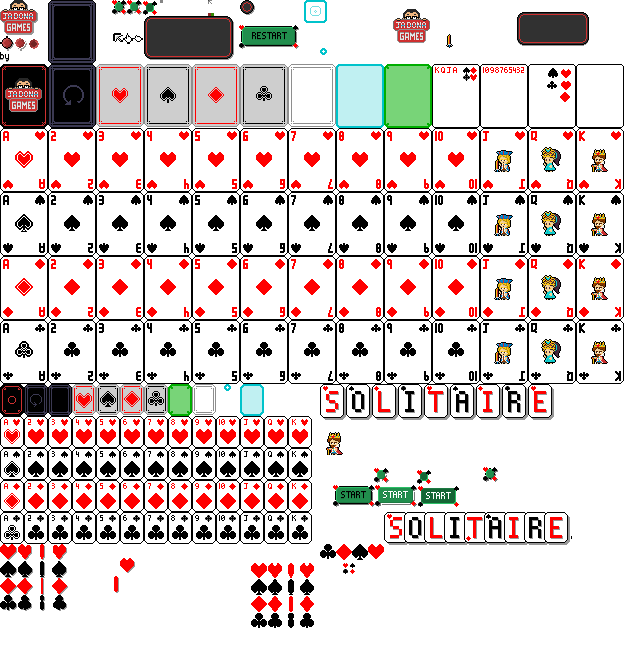
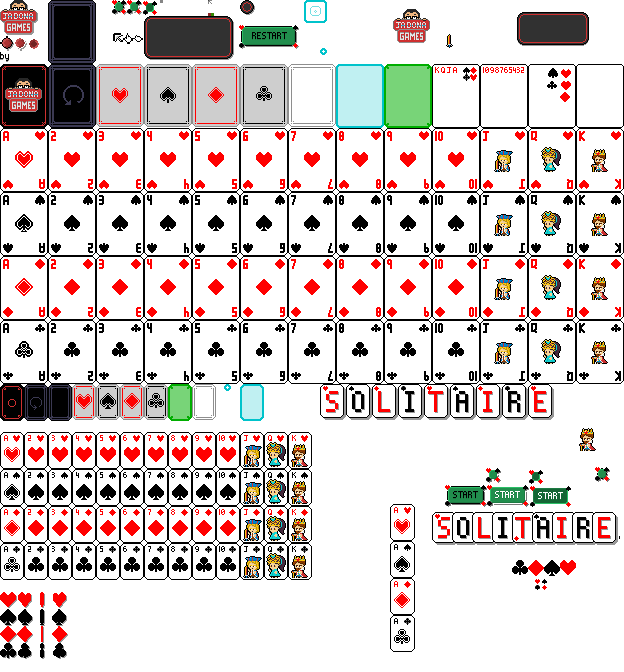
MAJ

Changed region(s): [[0.0, 0.0, 1.0, 0.9861], [0.8221, 0.0, 0.9439, 0.0308], [0.4872, 0.0, 0.5176, 0.0308]]

diff --git a/ENTITIES/card.js b/ENTITIES/card.js
@@ -22,7 +22,7 @@ class Card {
         Hover: 1,
         FaceDown: 2,
     });
-    static COL_OFFSET = 68;
+    static COL_OFFSET = 74; //? PixelMode COL offset
     static font = "24px kyokasho";
 
     constructor(pPosition, pName, pType, pAnimX, pAnimY, pKanji) {
@@ -36,7 +36,7 @@ class Card {
             this.height = 64;
         } else {
             this.width = 24;
-            this.height = 32;
+            this.height = 37;
         }
 
         this.state = Card.STATE.Normal;
@@ -321,58 +321,58 @@ class Card {
 
         } else { //? PixelMode
 
-            Card.CARD_LIST["A♥"] = {name: "A",type: "♥",x: 0, y: 416};
-            Card.CARD_LIST["2♥"] = {name: "2",type: "♥",x: 24,y: 416};
-            Card.CARD_LIST["3♥"] = {name: "3",type: "♥",x: 48,y: 416};
-            Card.CARD_LIST["4♥"] = {name: "4",type: "♥",x: 72,y: 416};
-            Card.CARD_LIST["5♥"] = {name: "5",type: "♥",x: 96,y: 416};
-            Card.CARD_LIST["6♥"] = {name: "6",type: "♥",x: 120,y: 416};
-            Card.CARD_LIST["7♥"] = {name: "7",type: "♥",x: 144,y: 416};
-            Card.CARD_LIST["8♥"] = {name: "8",type: "♥",x: 168,y: 416};
-            Card.CARD_LIST["9♥"] = {name: "9",type: "♥",x: 192,y: 416};
-            Card.CARD_LIST["10♥"] ={name: "10",type: "♥",x: 216,y: 416};
-            Card.CARD_LIST["J♥"] = {name: "J",type: "♥",x: 240,y: 416};
-            Card.CARD_LIST["Q♥"] = {name: "Q",type: "♥",x: 264,y: 416};
-            Card.CARD_LIST["K♥"] = {name: "K",type: "♥",x: 288,y: 416};
-            Card.CARD_LIST["A♠"] = {name: "A",type: "♠",x: 0, y: 448};
-            Card.CARD_LIST["2♠"] = {name: "2",type: "♠",x: 24,y: 448};
-            Card.CARD_LIST["3♠"] = {name: "3",type: "♠",x: 48,y: 448};
-            Card.CARD_LIST["4♠"] = {name: "4",type: "♠",x: 72,y: 448};
-            Card.CARD_LIST["5♠"] = {name: "5",type: "♠",x: 96,y: 448};
-            Card.CARD_LIST["6♠"] = {name: "6",type: "♠",x: 120,y: 448};
-            Card.CARD_LIST["7♠"] = {name: "7",type: "♠",x: 144,y: 448};
-            Card.CARD_LIST["8♠"] = {name: "8",type: "♠",x: 168,y: 448};
-            Card.CARD_LIST["9♠"] = {name: "9",type: "♠",x: 192,y: 448};
-            Card.CARD_LIST["10♠"] ={name: "10",type: "♠",x: 216,y: 448};
-            Card.CARD_LIST["J♠"] = {name: "J",type: "♠",x: 240,y: 448};
-            Card.CARD_LIST["Q♠"] = {name: "Q",type: "♠",x: 264,y: 448};
-            Card.CARD_LIST["K♠"] = {name: "K",type: "♠",x: 288,y: 448};
-            Card.CARD_LIST["A♦"] = {name: "A",type: "♦",x: 0, y: 480};
-            Card.CARD_LIST["2♦"] = {name: "2",type: "♦",x: 24,y: 480};
-            Card.CARD_LIST["3♦"] = {name: "3",type: "♦",x: 48,y: 480};
-            Card.CARD_LIST["4♦"] = {name: "4",type: "♦",x: 72,y: 480};
-            Card.CARD_LIST["5♦"] = {name: "5",type: "♦",x: 96,y: 480};
-            Card.CARD_LIST["6♦"] = {name: "6",type: "♦",x: 120,y: 480};
-            Card.CARD_LIST["7♦"] = {name: "7",type: "♦",x: 144,y: 480};
-            Card.CARD_LIST["8♦"] = {name: "8",type: "♦",x: 168,y: 480};
-            Card.CARD_LIST["9♦"] = {name: "9",type: "♦",x: 192,y: 480};
-            Card.CARD_LIST["10♦"] ={name: "10",type: "♦",x: 216,y: 480};
-            Card.CARD_LIST["J♦"] = {name: "J",type: "♦",x: 240,y: 480};
-            Card.CARD_LIST["Q♦"] = {name: "Q",type: "♦",x: 264,y: 480};
-            Card.CARD_LIST["K♦"] = {name: "K",type: "♦",x: 288,y: 480};
-            Card.CARD_LIST["A♣"] = {name: "A",type: "♣",x: 0, y: 512};
-            Card.CARD_LIST["2♣"] = {name: "2",type: "♣",x: 24,y: 512};
-            Card.CARD_LIST["3♣"] = {name: "3",type: "♣",x: 48,y: 512};
-            Card.CARD_LIST["4♣"] = {name: "4",type: "♣",x: 72,y: 512};
-            Card.CARD_LIST["5♣"] = {name: "5",type: "♣",x: 96,y: 512};
-            Card.CARD_LIST["6♣"] = {name: "6",type: "♣",x: 120,y: 512};
-            Card.CARD_LIST["7♣"] = {name: "7",type: "♣",x: 144,y: 512};
-            Card.CARD_LIST["8♣"] = {name: "8",type: "♣",x: 168,y: 512};
-            Card.CARD_LIST["9♣"] = {name: "9",type: "♣",x: 192,y: 512};
-            Card.CARD_LIST["10♣"] ={name: "10",type: "♣",x: 216,y: 512};
-            Card.CARD_LIST["J♣"] = {name: "J",type: "♣",x: 240,y: 512};
-            Card.CARD_LIST["Q♣"] = {name: "Q",type: "♣",x: 264,y: 512};
-            Card.CARD_LIST["K♣"] = {name: "K",type: "♣",x: 288,y: 512};
+            Card.CARD_LIST["A♥"] = {name: "A",type: "♥",x: 0, y: 432};
+            Card.CARD_LIST["2♥"] = {name: "2",type: "♥",x: 24,y: 432};
+            Card.CARD_LIST["3♥"] = {name: "3",type: "♥",x: 48,y: 432};
+            Card.CARD_LIST["4♥"] = {name: "4",type: "♥",x: 72,y: 432};
+            Card.CARD_LIST["5♥"] = {name: "5",type: "♥",x: 96,y: 432};
+            Card.CARD_LIST["6♥"] = {name: "6",type: "♥",x: 120,y: 432};
+            Card.CARD_LIST["7♥"] = {name: "7",type: "♥",x: 144,y: 432};
+            Card.CARD_LIST["8♥"] = {name: "8",type: "♥",x: 168,y: 432};
+            Card.CARD_LIST["9♥"] = {name: "9",type: "♥",x: 192,y: 432};
+            Card.CARD_LIST["10♥"] ={name: "10",type: "♥",x: 216,y: 432};
+            Card.CARD_LIST["J♥"] = {name: "J",type: "♥",x: 240,y: 432};
+            Card.CARD_LIST["Q♥"] = {name: "Q",type: "♥",x: 264,y: 432};
+            Card.CARD_LIST["K♥"] = {name: "K",type: "♥",x: 288,y: 432};
+            Card.CARD_LIST["A♠"] = {name: "A",type: "♠",x: 0, y: 469};
+            Card.CARD_LIST["2♠"] = {name: "2",type: "♠",x: 24,y: 469};
+            Card.CARD_LIST["3♠"] = {name: "3",type: "♠",x: 48,y: 469};
+            Card.CARD_LIST["4♠"] = {name: "4",type: "♠",x: 72,y: 469};
+            Card.CARD_LIST["5♠"] = {name: "5",type: "♠",x: 96,y: 469};
+            Card.CARD_LIST["6♠"] = {name: "6",type: "♠",x: 120,y: 469};
+            Card.CARD_LIST["7♠"] = {name: "7",type: "♠",x: 144,y: 469};
+            Card.CARD_LIST["8♠"] = {name: "8",type: "♠",x: 168,y: 469};
+            Card.CARD_LIST["9♠"] = {name: "9",type: "♠",x: 192,y: 469};
+            Card.CARD_LIST["10♠"] ={name: "10",type: "♠",x: 216,y: 469};
+            Card.CARD_LIST["J♠"] = {name: "J",type: "♠",x: 240,y: 469};
+            Card.CARD_LIST["Q♠"] = {name: "Q",type: "♠",x: 264,y: 469};
+            Card.CARD_LIST["K♠"] = {name: "K",type: "♠",x: 288,y: 469};
+            Card.CARD_LIST["A♦"] = {name: "A",type: "♦",x: 0, y: 506};
+            Card.CARD_LIST["2♦"] = {name: "2",type: "♦",x: 24,y: 506};
+            Card.CARD_LIST["3♦"] = {name: "3",type: "♦",x: 48,y: 506};
+            Card.CARD_LIST["4♦"] = {name: "4",type: "♦",x: 72,y: 506};
+            Card.CARD_LIST["5♦"] = {name: "5",type: "♦",x: 96,y: 506};
+            Card.CARD_LIST["6♦"] = {name: "6",type: "♦",x: 120,y: 506};
+            Card.CARD_LIST["7♦"] = {name: "7",type: "♦",x: 144,y: 506};
+            Card.CARD_LIST["8♦"] = {name: "8",type: "♦",x: 168,y: 506};
+            Card.CARD_LIST["9♦"] = {name: "9",type: "♦",x: 192,y: 506};
+            Card.CARD_LIST["10♦"] ={name: "10",type: "♦",x: 216,y: 506};
+            Card.CARD_LIST["J♦"] = {name: "J",type: "♦",x: 240,y: 506};
+            Card.CARD_LIST["Q♦"] = {name: "Q",type: "♦",x: 264,y: 506};
+            Card.CARD_LIST["K♦"] = {name: "K",type: "♦",x: 288,y: 506};
+            Card.CARD_LIST["A♣"] = {name: "A",type: "♣",x: 0, y: 543};
+            Card.CARD_LIST["2♣"] = {name: "2",type: "♣",x: 24,y: 543};
+            Card.CARD_LIST["3♣"] = {name: "3",type: "♣",x: 48,y: 543};
+            Card.CARD_LIST["4♣"] = {name: "4",type: "♣",x: 72,y: 543};
+            Card.CARD_LIST["5♣"] = {name: "5",type: "♣",x: 96,y: 543};
+            Card.CARD_LIST["6♣"] = {name: "6",type: "♣",x: 120,y: 543};
+            Card.CARD_LIST["7♣"] = {name: "7",type: "♣",x: 144,y: 543};
+            Card.CARD_LIST["8♣"] = {name: "8",type: "♣",x: 168,y: 543};
+            Card.CARD_LIST["9♣"] = {name: "9",type: "♣",x: 192,y: 543};
+            Card.CARD_LIST["10♣"] ={name: "10",type: "♣",x: 216,y: 543};
+            Card.CARD_LIST["J♣"] = {name: "J",type: "♣",x: 240,y: 543};
+            Card.CARD_LIST["Q♣"] = {name: "Q",type: "♣",x: 264,y: 543};
+            Card.CARD_LIST["K♣"] = {name: "K",type: "♣",x: 288,y: 543};
             
             let x = 1;
             let xOffset = 27;

diff --git a/SCENES/pixelMode.js b/SCENES/pixelMode.js
@@ -103,34 +103,34 @@ class PixelMode {
         // endingBtn.setTextCenterY();
         // PixelMode.list.push(endingBtn.getSprite());
 
-        PixelMode.DECK = new Sprite({ w: 24, h: 32 }, Card.POSITIONS["deck"].x, Card.POSITIONS["deck"].y, null, "card");
+        PixelMode.DECK = new Sprite({ w: 24, h: 37 }, Card.POSITIONS["deck"].x, Card.POSITIONS["deck"].y, null, "card");
         PixelMode.DECK.addAnimation("normal", { x: 24, y: 384 });
         PixelMode.DECK.addAnimation("void", { x: 48, y: 384 });
         PixelMode.DECK.changeAnimation("normal");
         PixelMode.list.push(PixelMode.DECK);
 
-        PixelMode.DECK2 = new Sprite({ w: 24, h: 32 }, Card.POSITIONS["deck2"].x, Card.POSITIONS["deck2"].y, null, "card");
+        PixelMode.DECK2 = new Sprite({ w: 24, h: 37 }, Card.POSITIONS["deck2"].x, Card.POSITIONS["deck2"].y, null, "card");
         PixelMode.DECK2.addAnimation("normal", { x: 192, y: 384 });
         PixelMode.DECK2.changeAnimation("normal");
         PixelMode.list.push(PixelMode.DECK2);
 
         // hearts (♥), spades (♠), diamonds (♦), clubs (♣).
-        PixelMode.DECK_HEART = new Sprite({ w: 24, h: 32 }, Card.POSITIONS["♥"].x, Card.POSITIONS["♥"].y, null, "card");
+        PixelMode.DECK_HEART = new Sprite({ w: 24, h: 37 }, Card.POSITIONS["♥"].x, Card.POSITIONS["♥"].y, null, "card");
         PixelMode.DECK_HEART.addAnimation("normal", { x: 72, y: 384 });
         PixelMode.DECK_HEART.changeAnimation("normal");
         PixelMode.list.push(PixelMode.DECK_HEART);
 
-        PixelMode.DECK_SPADE = new Sprite({ w: 24, h: 32 }, Card.POSITIONS["♠"].x, Card.POSITIONS["♠"].y, null, "card");
+        PixelMode.DECK_SPADE = new Sprite({ w: 24, h: 37 }, Card.POSITIONS["♠"].x, Card.POSITIONS["♠"].y, null, "card");
         PixelMode.DECK_SPADE.addAnimation("normal", { x: 96, y: 384 });
         PixelMode.DECK_SPADE.changeAnimation("normal");
         PixelMode.list.push(PixelMode.DECK_SPADE);
 
-        PixelMode.DECK_DIAMOND = new Sprite({ w: 24, h: 32 }, Card.POSITIONS["♦"].x, Card.POSITIONS["♦"].y, null, "card");
+        PixelMode.DECK_DIAMOND = new Sprite({ w: 24, h: 37 }, Card.POSITIONS["♦"].x, Card.POSITIONS["♦"].y, null, "card");
         PixelMode.DECK_DIAMOND.addAnimation("normal", { x: 120, y: 384 });
         PixelMode.DECK_DIAMOND.changeAnimation("normal");
         PixelMode.list.push(PixelMode.DECK_DIAMOND);
 
-        PixelMode.DECK_CLUB = new Sprite({ w: 24, h: 32 }, Card.POSITIONS["♣"].x, Card.POSITIONS["♣"].y, null, "card");
+        PixelMode.DECK_CLUB = new Sprite({ w: 24, h: 37 }, Card.POSITIONS["♣"].x, Card.POSITIONS["♣"].y, null, "card");
         PixelMode.DECK_CLUB.addAnimation("normal", { x: 144, y: 384 });
         PixelMode.DECK_CLUB.changeAnimation("normal");
         PixelMode.list.push(PixelMode.DECK_CLUB);
@@ -142,37 +142,37 @@ class PixelMode {
             {x: PixelMode.DECK_CLUB.x,    y: PixelMode.DECK_CLUB.y,    w: PixelMode.DECK_CLUB.width,    h: PixelMode.DECK_CLUB.height,    type: "♣"}
         ]
 
-        PixelMode.POS_1 = new Sprite({ w: 24, h: 32 }, Card.POSITIONS["c1"].x, Card.POSITIONS["c1"].y, null, "card");
+        PixelMode.POS_1 = new Sprite({ w: 24, h: 37 }, Card.POSITIONS["c1"].x, Card.POSITIONS["c1"].y, null, "card");
         PixelMode.POS_1.addAnimation("normal", { x: 192, y: 384 });
         PixelMode.POS_1.changeAnimation("normal");
         PixelMode.list.push(PixelMode.POS_1);
 
-        PixelMode.POS_2 = new Sprite({ w: 24, h: 32 }, Card.POSITIONS["c2"].x, Card.POSITIONS["c2"].y, null, "card");
+        PixelMode.POS_2 = new Sprite({ w: 24, h: 37 }, Card.POSITIONS["c2"].x, Card.POSITIONS["c2"].y, null, "card");
         PixelMode.POS_2.addAnimation("normal", { x: 192, y: 384 });
         PixelMode.POS_2.changeAnimation("normal");
         PixelMode.list.push(PixelMode.POS_2);
 
-        PixelMode.POS_3 = new Sprite({ w: 24, h: 32 }, Card.POSITIONS["c3"].x, Card.POSITIONS["c3"].y, null, "card");
+        PixelMode.POS_3 = new Sprite({ w: 24, h: 37 }, Card.POSITIONS["c3"].x, Card.POSITIONS["c3"].y, null, "card");
         PixelMode.POS_3.addAnimation("normal", { x: 192, y: 384 });
         PixelMode.POS_3.changeAnimation("normal");
         PixelMode.list.push(PixelMode.POS_3);
 
-        PixelMode.POS_4 = new Sprite({ w: 24, h: 32 }, Card.POSITIONS["c4"].x, Card.POSITIONS["c4"].y, null, "card");
+        PixelMode.POS_4 = new Sprite({ w: 24, h: 37 }, Card.POSITIONS["c4"].x, Card.POSITIONS["c4"].y, null, "card");
         PixelMode.POS_4.addAnimation("normal", { x: 192, y: 384 });
         PixelMode.POS_4.changeAnimation("normal");
         PixelMode.list.push(PixelMode.POS_4);
 
-        PixelMode.POS_5 = new Sprite({ w: 24, h: 32 }, Card.POSITIONS["c5"].x, Card.POSITIONS["c5"].y, null, "card");
+        PixelMode.POS_5 = new Sprite({ w: 24, h: 37 }, Card.POSITIONS["c5"].x, Card.POSITIONS["c5"].y, null, "card");
         PixelMode.POS_5.addAnimation("normal", { x: 192, y: 384 });
         PixelMode.POS_5.changeAnimation("normal");
         PixelMode.list.push(PixelMode.POS_5);
 
-        PixelMode.POS_6 = new Sprite({ w: 24, h: 32 }, Card.POSITIONS["c6"].x, Card.POSITIONS["c6"].y, null, "card");
+        PixelMode.POS_6 = new Sprite({ w: 24, h: 37 }, Card.POSITIONS["c6"].x, Card.POSITIONS["c6"].y, null, "card");
         PixelMode.POS_6.addAnimation("normal", { x: 192, y: 384 });
         PixelMode.POS_6.changeAnimation("normal");
         PixelMode.list.push(PixelMode.POS_6);
 
-        PixelMode.POS_7 = new Sprite({ w: 24, h: 32 }, Card.POSITIONS["c7"].x, Card.POSITIONS["c7"].y, null, "card");
+        PixelMode.POS_7 = new Sprite({ w: 24, h: 37 }, Card.POSITIONS["c7"].x, Card.POSITIONS["c7"].y, null, "card");
         PixelMode.POS_7.addAnimation("normal", { x: 192, y: 384 });
         PixelMode.POS_7.changeAnimation("normal");
         PixelMode.list.push(PixelMode.POS_7);
@@ -191,13 +191,12 @@ class PixelMode {
         PixelMode.hover.addAnimation("active", { x: 336, y: 64 });
         PixelMode.hover.changeAnimation("active");
 
-        PixelMode.hoverPanel = new Panel({ w: 24, h: 32, v: 3 }, 10, 200, null, "PixelMode", PixelMode.STATE.Main, "", 3);
-        // PixelMode.selectPanel = new Panel({ w: 24, h: 32, v: 11 }, 10, 200, null, "PixelMode", PixelMode.STATE.Main, "", 4);
-        PixelMode.selectPanel = new Sprite({ w: 24, h: 32 }, 0, 0, null, "card");
+        PixelMode.hoverPanel = new Panel({ w: 24, h: 37, v: 3 }, 10, 200, null, "PixelMode", PixelMode.STATE.Main, "", 3);
+        PixelMode.selectPanel = new Sprite({ w: 24, h: 37 }, 0, 0, null, "card");
         PixelMode.selectPanel.addAnimation("normal", {x: 240, y: 384 });
         PixelMode.selectPanel.changeAnimation("normal");
 
-        PixelMode.OK_PANEL = new Sprite({ w: 24, h: 32 }, 0, 0, null, "card");
+        PixelMode.OK_PANEL = new Sprite({ w: 24, h: 37 }, 0, 0, null, "card");
         PixelMode.OK_PANEL.addAnimation("normal", { x: 168, y: 384 });
         PixelMode.OK_PANEL.changeAnimation("normal");
 
@@ -480,7 +479,7 @@ class PixelMode {
 
         let card = PixelMode.lists[PixelMode.currentPosition][PixelMode.lists[PixelMode.currentPosition].length-1].parent;
 
-        let newSprite = new Sprite({ w: 24, h: 32 }, card.x, card.y, null, "end"); //? Moving Card
+        let newSprite = new Sprite({ w: 24, h: 37 }, card.x, card.y, null, "end"); //? Moving Card
         newSprite.addAnimation("normal", { x: card.sp.getAnimation("normal").origin.x, y: card.sp.getAnimation("normal").origin.y});
         newSprite.changeAnimation("normal");
         newSprite.sx = rnd(3, 26) / 10; //! sx = (-0.5 => -2.5 || 0.5 => 2.5)

diff --git a/SCENES/titleScreen.js b/SCENES/titleScreen.js
@@ -60,11 +60,11 @@ class TitleScreen {
         let firstFrameSpeed = 1;
 
         let normalBtnLeft = new Sprite({ w: 17, h: 17 }, -20, 3, normalBtn, "TitleScreen");
-        normalBtnLeft.addAnimation("normal", { x: 0, y: 544 }, 4, [firstFrameSpeed, 0.05, 0.1, 0.05]);
+        normalBtnLeft.addAnimation("normal", { x: 0, y: 592 }, 4, [firstFrameSpeed, 0.05, 0.1, 0.05]);
         normalBtnLeft.changeAnimation("normal");
         TitleScreen.list.push(normalBtnLeft);
         let normalBtnRight = new Sprite({ w: 17, h: 17 }, normalBtn.width + 3, 3, normalBtn, "TitleScreen");
-        normalBtnRight.addAnimation("normal", { x: 0, y: 544 }, 4, [firstFrameSpeed, 0.05, 0.1, 0.05]);
+        normalBtnRight.addAnimation("normal", { x: 0, y: 592 }, 4, [firstFrameSpeed, 0.05, 0.1, 0.05]);
         normalBtnRight.changeAnimation("normal");
         TitleScreen.list.push(normalBtnRight);
 
@@ -76,11 +76,11 @@ class TitleScreen {
         TitleScreen.list.push(pixelBtn.getSprite());
 
         let pixelBtnLeft = new Sprite({ w: 17, h: 17 }, -20, 3, pixelBtn, "TitleScreen");
-        pixelBtnLeft.addAnimation("normal", { x: 0, y: 561 }, 4, [firstFrameSpeed, 0.05, 0.1, 0.05]);
+        pixelBtnLeft.addAnimation("normal", { x: 0, y: 609 }, 4, [firstFrameSpeed, 0.05, 0.1, 0.05]);
         pixelBtnLeft.changeAnimation("normal");
         TitleScreen.list.push(pixelBtnLeft);
         let pixelBtnRight = new Sprite({ w: 17, h: 17 }, pixelBtn.width + 3, 3, pixelBtn, "TitleScreen");
-        pixelBtnRight.addAnimation("normal", { x: 0, y: 561 }, 4, [firstFrameSpeed, 0.05, 0.1, 0.05]);
+        pixelBtnRight.addAnimation("normal", { x: 0, y: 609 }, 4, [firstFrameSpeed, 0.05, 0.1, 0.05]);
         pixelBtnRight.changeAnimation("normal");
         TitleScreen.list.push(pixelBtnRight);
 
@@ -92,11 +92,11 @@ class TitleScreen {
         TitleScreen.list.push(kanjiBtn.getSprite());
 
         let kanjiBtnLeft = new Sprite({ w: 17, h: 17 }, -20, 3, kanjiBtn, "TitleScreen");
-        kanjiBtnLeft.addAnimation("normal", { x: 0, y: 578 }, 4, [firstFrameSpeed, 0.05, 0.1, 0.05]);
+        kanjiBtnLeft.addAnimation("normal", { x: 0, y: 626 }, 4, [firstFrameSpeed, 0.05, 0.1, 0.05]);
         kanjiBtnLeft.changeAnimation("normal");
         TitleScreen.list.push(kanjiBtnLeft);
         let kanjiBtnRight = new Sprite({ w: 17, h: 17 }, kanjiBtn.width + 3, 3, kanjiBtn, "TitleScreen");
-        kanjiBtnRight.addAnimation("normal", { x: 0, y: 578 }, 4, [firstFrameSpeed, 0.05, 0.1, 0.05]);
+        kanjiBtnRight.addAnimation("normal", { x: 0, y: 626 }, 4, [firstFrameSpeed, 0.05, 0.1, 0.05]);
         kanjiBtnRight.changeAnimation("normal");
         TitleScreen.list.push(kanjiBtnRight);
 
@@ -108,11 +108,11 @@ class TitleScreen {
         TitleScreen.list.push(hanziBtn.getSprite());
 
         let hanziBtnLeft = new Sprite({ w: 17, h: 17 }, -20, 3, hanziBtn, "TitleScreen");
-        hanziBtnLeft.addAnimation("normal", { x: 0, y: 595 }, 4, [firstFrameSpeed, 0.05, 0.1, 0.05]);
+        hanziBtnLeft.addAnimation("normal", { x: 0, y: 643 }, 4, [firstFrameSpeed, 0.05, 0.1, 0.05]);
         hanziBtnLeft.changeAnimation("normal");
         TitleScreen.list.push(hanziBtnLeft);
         let hanziBtnRight = new Sprite({ w: 17, h: 17 }, hanziBtn.width + 3, 3, hanziBtn, "TitleScreen");
-        hanziBtnRight.addAnimation("normal", { x: 0, y: 595 }, 4, [firstFrameSpeed, 0.05, 0.1, 0.05]);
+        hanziBtnRight.addAnimation("normal", { x: 0, y: 643 }, 4, [firstFrameSpeed, 0.05, 0.1, 0.05]);
         hanziBtnRight.changeAnimation("normal");
         TitleScreen.list.push(hanziBtnRight);
 

diff --git a/input.js b/input.js
@@ -2054,7 +2054,7 @@ if (Input.MOUSE_CLICK) {
                                         card.bMoving = true
                                         TRANSITION = true;
 
-                                        let newSprite = new Sprite({ w: 24, h: 32 }, card.x, card.y, null, "mc"); //? Moving Card
+                                        let newSprite = new Sprite({ w: 24, h: 37 }, card.x, card.y, null, "mc"); //? Moving Card
                                         newSprite.addAnimation("normal", { x: card.getSprite().getAnimation("normal").origin.x, y: card.getSprite().getAnimation("normal").origin.y });
                                         newSprite.changeAnimation("normal");
                                         newSprite.setDestination({ x: PixelMode.OK_PANEL.x, y: PixelMode.OK_PANEL.y + offsetY});
@@ -2094,7 +2094,7 @@ if (Input.MOUSE_CLICK) {
                                 Card.inTransition = Card.selected;
                                 TRANSITION = true;
 
-                                let newSprite = new Sprite({ w: 24, h: 32 }, Card.selected.x, Card.selected.y, null, "mc"); //? Moving Card
+                                let newSprite = new Sprite({ w: 24, h: 37 }, Card.selected.x, Card.selected.y, null, "mc"); //? Moving Card
                                 newSprite.addAnimation("normal", { x: Card.selected.getSprite().getAnimation("normal").origin.x, y: Card.selected.getSprite().getAnimation("normal").origin.y });
                                 newSprite.changeAnimation("normal");
                                 newSprite.setDestination({ x: PixelMode.OK_PANEL.x, y: PixelMode.OK_PANEL.y });
@@ -2533,7 +2533,7 @@ if (Input.DOUBLE_CLICK) {
                     TRANSITION = true;
                     PixelMode.bDeck2Hover = false;
 
-                    let newSprite = new Sprite({ w: 24, h: 32 }, Card.selected.x, Card.selected.y, null, "mc"); //? Moving Card
+                    let newSprite = new Sprite({ w: 24, h: 37 }, Card.selected.x, Card.selected.y, null, "mc"); //? Moving Card
                     newSprite.addAnimation("normal", { x: Card.selected.getSprite().getAnimation("normal").origin.x, y: Card.selected.getSprite().getAnimation("normal").origin.y });
                     newSprite.changeAnimation("normal");
                     newSprite.setDestination({ x: PixelMode.OK_PANEL.x, y: PixelMode.OK_PANEL.y });
